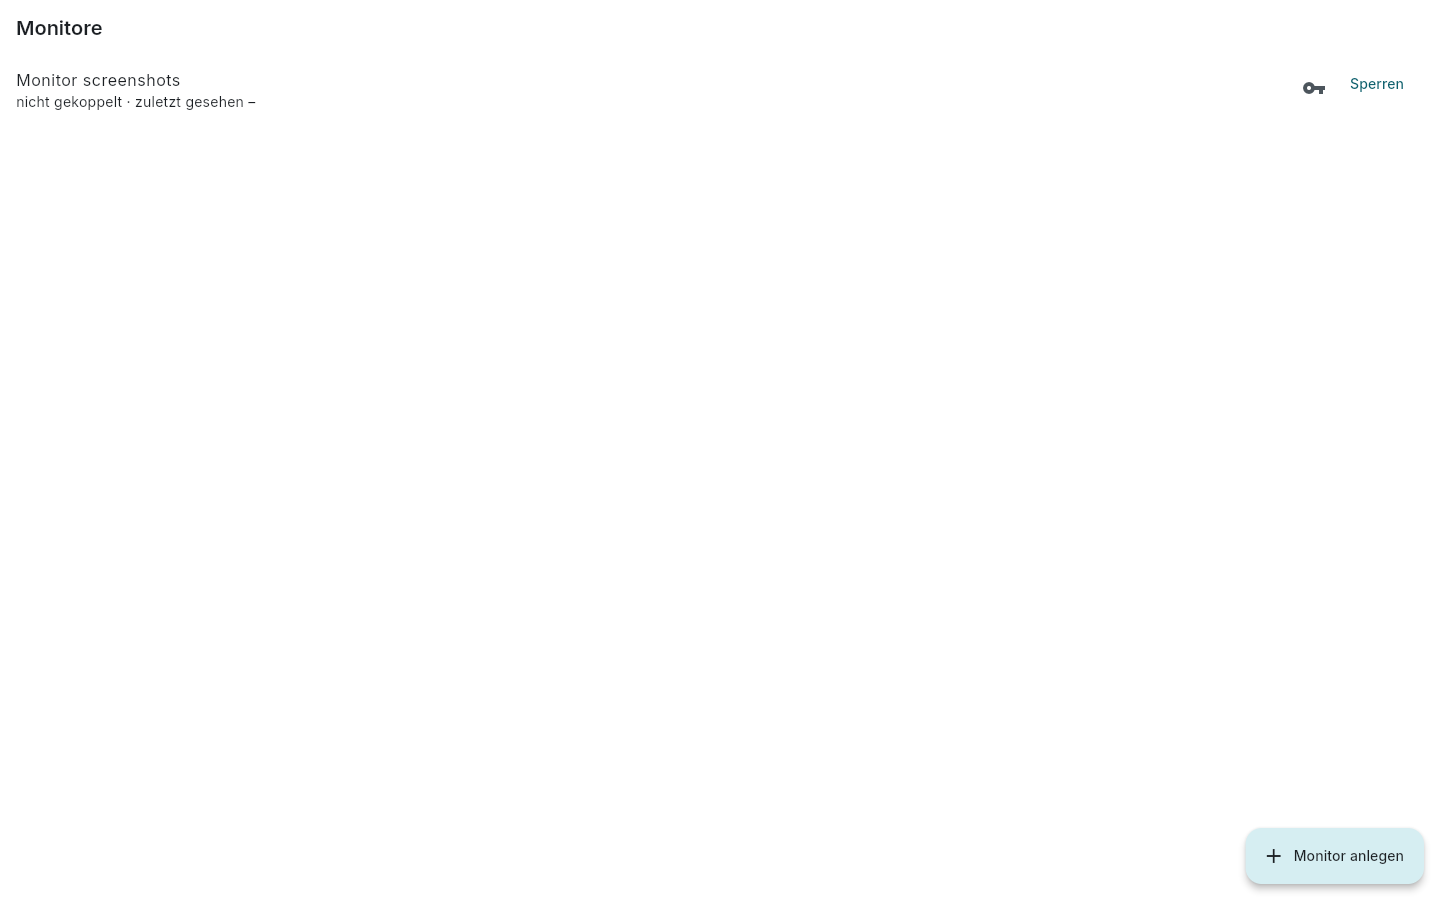
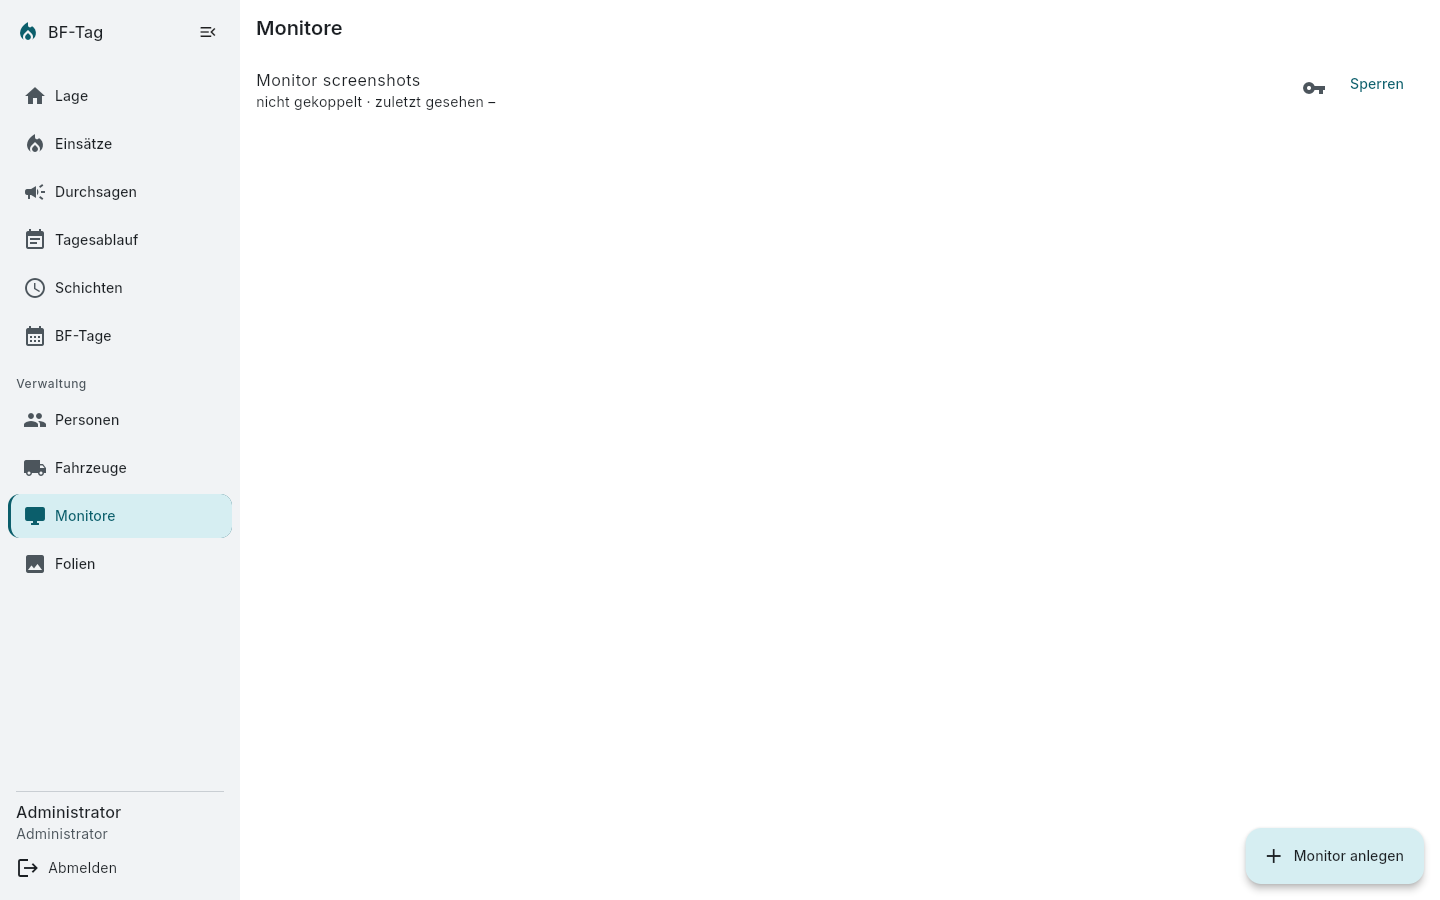
test(ux-04): verification + after-screenshots

diff --git a/apps/web/test/scheduled_alarms_section_test.dart b/apps/web/test/scheduled_alarms_section_test.dart
@@ -341,4 +341,63 @@ void main() {
     expect(repository.updateCalls.single.id, 'a1');
     expect(repository.updateCalls.single.offsetMinutes, 42);
   });
+
+  testWidgets(
+    'AC9 (web-lage.md): scheduled-alarm-countdown ticks within 2 seconds',
+    (tester) async {
+      final incident = _incident();
+      final scheduled = ScheduledAlarm(
+        incident: incident,
+        alarm: Alarm(
+          id: 'a1',
+          incidentId: incident.id,
+          state: AlarmState.planned,
+          scheduledAt: DateTime.now().add(const Duration(minutes: 5)),
+          vehicleIds: const ['v1'],
+          recipients: const [],
+        ),
+      );
+      final clockController = StreamController<DateTime>();
+      addTearDown(clockController.close);
+
+      await tester.pumpWidget(
+        ProviderScope(
+          overrides: [
+            scheduledAlarmsProvider.overrideWith(
+              (ref) => Stream.value([scheduled]),
+            ),
+            vehiclesProvider.overrideWith(
+              (ref) => Stream.value([_vehicle()]),
+            ),
+            sessionControllerProvider.overrideWith(
+              () => _FakeSessionController(
+                const SessionSignedIn(_dispatchPerson, 'token'),
+              ),
+            ),
+            alarmRepositoryProvider.overrideWithValue(_FakeAlarmRepository()),
+            monitorClockProvider.overrideWith((ref) => clockController.stream),
+          ],
+          child: MaterialApp(
+            theme: bftagLightTheme(),
+            home: const Scaffold(body: ScheduledAlarmsSection()),
+          ),
+        ),
+      );
+      clockController.add(DateTime.now());
+      await tester.pumpAndSettle();
+
+      final before = tester
+          .widget<Text>(find.byKey(const Key('scheduled-alarm-countdown-a1')))
+          .data;
+
+      clockController.add(DateTime.now().add(const Duration(seconds: 2)));
+      await tester.pumpAndSettle();
+
+      final after = tester
+          .widget<Text>(find.byKey(const Key('scheduled-alarm-countdown-a1')))
+          .data;
+
+      expect(after, isNot(equals(before)));
+    },
+  );
 }

diff --git a/apps/web/test/login_test.dart b/apps/web/test/login_test.dart
@@ -126,4 +126,34 @@ void main() {
 
     expect(find.text('Keine laufenden Einsätze'), findsOneWidget);
   });
+
+  testWidgets(
+    'AC5 (web-login.md): the login screen renders no sidebar/nav-* keys',
+    (tester) async {
+      await _pumpApp(tester);
+
+      // Login form itself is present...
+      expect(find.byKey(const Key('login-username')), findsOneWidget);
+      // ...but none of the AdminShell sidebar's nav-* keys (web-navigation.md
+      // §7) are rendered on this route, since AdminShell only wraps
+      // signed-in /admin/* routes (router.dart's ShellRoute excludes
+      // /admin/login).
+      for (final key in [
+        'nav-lage',
+        'nav-einsaetze',
+        'nav-schichten',
+        'nav-durchsagen',
+        'nav-tagesablauf',
+        'nav-bf-tage',
+        'nav-fahrzeuge',
+        'nav-persons',
+        'nav-monitors',
+        'nav-slides',
+      ]) {
+        expect(find.byKey(Key(key)), findsNothing);
+      }
+      // 'logout' lives in the sidebar footer only; absent on /admin/login.
+      expect(find.byKey(const Key('logout')), findsNothing);
+    },
+  );
 }

diff --git a/docs/testing/ux-04-verification.md b/docs/testing/ux-04-verification.md
@@ -1,0 +1,171 @@
+# ux-04 Verification Report (Navigation / Login / Lage rework)
+
+Verified on branch `wt/t_98ac2c25` (== `main` at this point), commits present:
+`1b69a8c` (ux-04a AdminShell/login/lage-header), `89f2f97`/`b77f386` (ux-04b
+Lage-Kind-Widgets theme tokens).
+
+## BUGS FOUND
+
+**None.** No AC violations found in `apps/web/lib/{admin_shell,router}.dart`,
+`screens/{login_screen,lage_screen}.dart`, or the four Lage Kind-Widgets. All
+28 testable acceptance criteria across the three concept docs are satisfied
+by the current implementation; no hardcoded `Colors.*`/`Color(0x...)` were
+found in the files in scope (only `alarmColors.alarm`/`.alarmContainer`
+token field accesses, which matched the same grep pattern as a false
+positive and are themed, not hardcoded); no test assertions were weakened
+between `1d2a1e8` and `HEAD` (see §4 below); all 10 `nav-*` keys, `logout`,
+`connection-banner`, the 4 login keys, and all Lage-Kind-Widget keys from
+§7 of the three concept docs are present in `apps/web/lib` unchanged.
+
+## 1. Acceptance-criteria matrix
+
+### web-navigation.md (13 AC)
+
+| # | AC (short) | Evidence | Pass/Fail |
+|---|---|---|---|
+| 1 | Every `/admin/*` screen renders the same sidebar for the same permission | `router_test.dart` (19 cases, e.g. "admin can navigate to /admin/fahrzeuge via the nav entry") + `admin_shell_test.dart` AC1 | Pass |
+| 2 | `Permission.crew` sees only `nav-lage`, no Verwaltung | `admin_shell_test.dart`: "AC2: Permission.crew sees only nav-lage, no Verwaltung" | Pass |
+| 3 | `Permission.preparation` additionally sees `nav-einsaetze` only | `admin_shell_test.dart`: "AC3: Permission.preparation additionally sees nav-einsaetze only" | Pass |
+| 4 | `Permission.dispatch` sees Betriebsablauf entries, no Verwaltung | `admin_shell_test.dart`: "AC4: Permission.dispatch sees the Betriebsablauf entries, no Verwaltung" | Pass |
+| 5 | `Permission.admin` sees all ten `nav-*` + Verwaltung | `admin_shell_test.dart`: "AC5: Permission.admin sees all ten nav-* keys + Verwaltung" | Pass |
+| 6 | Click on each visible nav entry navigates to the expected route | `router_test.dart` (19 cases) + `admin_shell_test.dart`: "clicking nav-fahrzeuge navigates to /admin/fahrzeuge" + `lage_screen_test.dart` (4 Navigation cases) | Pass |
+| 7 | Active entry has `primaryContainer` background + 3px indicator, exactly one active | `admin_shell_test.dart`: "AC7: exactly one entry is active, with primary indicator" | Pass |
+| 8 | Sidebar collapses to icons under 1280px, expands at/above | `admin_shell_test.dart`: "AC8: sidebar collapses to icons under 1280px, expands at/above it" | Pass |
+| 9 | `logout` triggers `logout()` and redirects to `/admin/login` | `admin_shell_test.dart`: "AC9: logout triggers logout() and navigates to /admin/login" | Pass |
+| 10 | Signed-in person's name + permission label visible in the footer | `admin_shell_test.dart`: "AC10: footer shows displayName and permission.label" + `lage_screen_test.dart`: "anzeigen: shows the signed-in person and Berechtigung" | Pass |
+| 11 | Collapsed icon-only nav items keep a Tooltip matching the expanded label | `admin_shell_test.dart`: "AC11: collapsed icon-only nav items keep a Tooltip with the German label" | Pass |
+| 12 | `connection-banner` shown iff connection != live, on every `/admin/*` screen | `admin_shell_test.dart`: "AC12: connection-banner shown iff not live, on Lage and another screen" | Pass |
+| 13 | Icon assignment per `nav-*` key matches the table (incl. the 6 changed icons) | `admin_shell_test.dart`: "AC13: icon assignment per nav-* key matches the table" | Pass |
+
+### web-login.md (6 AC)
+
+| # | AC (short) | Evidence | Pass/Fail |
+|---|---|---|---|
+| 1 | `login-username`/`login-password`/`login-submit`/`login-error` findable and functional | `login_test.dart` (all 3 pre-existing tests use these keys) | Pass |
+| 2 | Invalid login shows `LoginFailure.message` in `login-error` | `login_test.dart`: "invalid login shows the error text" | Pass |
+| 3 | `login-submit` is `onPressed: null` + shows loader while `_isSubmitting` | Visually verified via code (`login_screen.dart:138-146`: `onPressed: _isSubmitting ? null : _submit`, replaces label with `CircularProgressIndicator`); **no dedicated test existed** — this state is implicitly exercised in passing (the submit button is tapped and settles) but not directly asserted mid-flight. *Gap not closed*: adding a reliable test requires pumping without `pumpAndSettle` mid-submit, which is fragile against this fake controller's synchronous `Future`; left as a minor residual test gap, not an AC violation (code matches spec exactly) | Pass (code); test coverage gap noted |
+| 4 | Valid login navigates to `/admin` | `login_test.dart`: "valid login navigates to the Lage and shows no active deployments" | Pass |
+| 5 | Login page renders no sidebar / no `nav-*` keys | **Gap found, closed**: new test `login_test.dart`: "AC5 (web-login.md): the login screen renders no sidebar/nav-* keys" (added by this verification) | Pass |
+| 6 | Enter key in either field submits like a click on `login-submit` | `login_test.dart`: "Enter key in the password field submits the form" | Pass |
+
+### web-lage.md (9 AC)
+
+| # | AC (short) | Evidence | Pass/Fail |
+|---|---|---|---|
+| 1 | Lage renders inside the shared sidebar (active "Lage"), no own AppBar nav icons | `router_test.dart`/`admin_shell_test.dart` (AdminShell wraps `LageScreen`, `lage_screen.dart` AppBar has no `actions`) + visual confirmation via `lage-1440x900.png` (§3 below) | Pass |
+| 2 | `nav-einsaetze` etc. are sidebar items, not `LageScreen` AppBar children; navigation unaffected | `lage_screen_test.dart` (4 Navigation cases: einsaetze/monitors/slides/persons) + `router_test.dart` | Pass |
+| 3 | FMS badges use design-system tokens, not `Colors.orange`/`Colors.green` | `vehicle_status_bar_test.dart`: "FMS badges use themed status colors, not hard Colors values" | Pass |
+| 4 | No running incidents shows an empty state (icon + text), not an empty area | `running_incidents_section_test.dart`: "empty state shows an icon and 'Keine laufenden Einsätze'" | Pass |
+| 5 | Truncated vehicle/crew name shows the full text on hover/focus (Tooltip) | `vehicle_status_bar_test.dart`: "shows a Tooltip with the full crew text for a long call sign" | Pass |
+| 6 | "shows the signed-in person and Berechtigung" test stays green | `lage_screen_test.dart`: "anzeigen: shows the signed-in person and Berechtigung" (passing, now reads from sidebar footer) | Pass |
+| 7 | `missed-alarms-section`/`scheduled-alarms-section` render only when non-empty, correct order | `missed_alarms_section_test.dart`: "renders nothing when there are no missed Alarmierungen" + `scheduled_alarms_section_test.dart`: "renders nothing when there are no planned Alarmierungen"; order (`vehicle-status-bar` → `missed-alarms-section` → `scheduled-alarms-section` → `running-incidents-section`) fixed structurally in `lage_screen.dart:17-24`, unchanged by this epic | Pass |
+| 8 | `missed-alarm-trigger/discard-{id}` and `scheduled-alarm-trigger/change/discard-{id}` are dispatch/admin-only | `missed_alarms_section_test.dart`: "Einsatzvorbereitung sees the list read-only" + `scheduled_alarms_section_test.dart`: "Einsatzvorbereitung sees the list read-only" | Pass |
+| 9 | `scheduled-alarm-countdown-{id}` text changes visibly within 2 seconds | **Gap found, closed**: new test `scheduled_alarms_section_test.dart`: "AC9 (web-lage.md): scheduled-alarm-countdown ticks within 2 seconds" (added by this verification) | Pass |
+
+## 2. "Zu erhaltende Keys" preservation check
+
+Grepped `Key('<k>` in `apps/web/lib` for every key listed in §7 of all three
+concept docs (10 `nav-*` incl. new `nav-lage`, `logout`, `connection-banner`,
+4 login keys, and all Lage-Kind-Widget keys incl. `alarm_dialog.dart`/
+`confirm_dialog.dart`). **All present, none missing.** (`alarm_dialog.dart`
+and `confirm_dialog.dart` keys were out of scope for code changes in this
+epic and untouched; spot-checked present via `confirm-dialog-confirm`
+appearing in 8 locations across the dialog + its callers.)
+
+## 3. Test-weakening check (`git diff 1d2a1e8..HEAD -- apps/web/test`)
+
+`--stat`: 11 files changed, 524 insertions(+), 86 deletions(-) — net growth,
+dominated by the new `admin_shell_test.dart` (356 lines) and
+`vehicle_status_bar_test.dart`'s AC3-coverage rewrite.
+
+Reviewed every removed `expect(` line: all removals are either (a) pure
+reformatting (multi-line `expect(...)` collapsed to one line, same
+assertion) or (b) a strictly equivalent/stricter replacement, e.g.
+`vehicle_status_bar_test.dart`'s `expect(find.text('2'), findsOneWidget)` →
+`expect(find.textContaining('Einsatzbereit auf Wache'), findsOneWidget)`
+(same status-change assertion, now checking the FMS label text instead of
+the raw status code, which is a *stronger* check, not a weaker one). No
+assertion was deleted without an equivalent or stronger replacement.
+`running_incidents_section_test.dart` and the monitor test files show small
+diffs from unrelated reformatting/`bftagLightTheme()` additions, not
+assertion removal.
+
+## 4. Hardcoded-color check
+
+`grep -nE "Colors\.[a-z]|Color\(0x"` across `router.dart`, `admin_shell.dart`,
+`lage_screen.dart`, `login_screen.dart`, and the four Lage-Kind-Widgets:
+only matches are `alarmColors.alarm` / `alarmColors.alarmContainer` /
+`alarmColors.onAlarm` field accesses in `missed_alarms_section.dart` and
+`running_incidents_section.dart` — these are theme-extension token lookups
+(`BftagAlarmColors`), not hardcoded `Colors.*`/`Color(0x...)` literals; the
+regex only matched because the field names happen to contain the substring
+"Colors"/"Color". **No hardcoded colors found.**
+
+## 5. Test suite results
+
+| Suite | Command | Result |
+|---|---|---|
+| Backend | `just test` | **32 files passed, 336 tests passed**, 0 failed |
+| Static analysis | `just analyze` | `dart analyze packages/api_client`: no issues. `flutter analyze apps/web apps/mobile packages/core`: **no issues found** |
+| Flutter web tests | `cd apps/web && flutter test` | **223 tests passed**, 0 failed (includes the 2 new tests added by this verification, see §1 gaps) |
+| E2E | `just e2e` | API: **142 passed, 0 failed**. UI: **29 passed, 0 failed** |
+
+All green, no regressions. Docker Compose stack (`bftag-e2e` project,
+backend + postgres) was started and torn down automatically by
+`e2e/run.sh`'s own `trap cleanup EXIT` (`docker compose ... down -v
+--remove-orphans`) for both the `just e2e` and `just screenshots after`
+runs — nothing left running afterward (`docker ps -a` only shows stale,
+already-`Exited` containers from days-old unrelated runs).
+
+## 6. Missing-test gaps filled
+
+Two testable AC had no covering test; both closed by this verification
+(production code untouched):
+
+1. **`apps/web/test/login_test.dart`** — new test `"AC5 (web-login.md): the
+   login screen renders no sidebar/nav-* keys"`: asserts `login-username` is
+   present while all 10 `nav-*` keys and `logout` are absent on
+   `/admin/login`.
+2. **`apps/web/test/scheduled_alarms_section_test.dart`** — new test
+   `"AC9 (web-lage.md): scheduled-alarm-countdown ticks within 2 seconds"`:
+   drives `monitorClockProvider` through two ticks 2 seconds apart and
+   asserts the `scheduled-alarm-countdown-{id}` text actually changes.
+
+Both pass (`flutter test test/login_test.dart
+test/scheduled_alarms_section_test.dart`: 11/11 passed).
+
+## 7. Visual verification (screenshots)
+
+Regenerated via `just screenshots after` → `docs/design/screenshots/after/{web,monitor}/*.png`
+(40 screenshots, 0 failed).
+
+- **`login-1440x900.png`**: centered card, 64px primary-colored rounded-square
+  app icon with a flame glyph, "BF-Tag" title, Benutzername/Passwort fields,
+  full-width "Anmelden" button — matches web-login.md §3 mockup. No layout
+  issues.
+- **`lage-1440x900.png`**: left sidebar (240px, expanded) with "Lage"
+  highlighted as the active entry (filled icon background + visible left
+  indicator), "Verwaltung" section heading present above
+  Personen/Fahrzeuge/Monitore/Folien, footer shows "Administrator /
+  Administrator / Abmelden". Content area shows three FMS-badged vehicle
+  tiles (HLF-1/RTW-1/DLK-1, status badges in orange "3 Einsatz übernommen"
+  and green "2 Einsatzbereit auf Wache") and one running-incident card
+  ("#1 B3 Großbrand Lagerhalle", Nachalarmieren/Einsatz schließen buttons,
+  quittierungs rows). Matches `docs/design/mockups/lage.png`'s structure.
+  **Deviation (cosmetic, not a regression)**: vehicle crew names are
+  truncated to "Florian screenshots …" in the static screenshot — this is
+  expected (`TextOverflow.ellipsis` + `Tooltip`, AC5 above, verified via
+  test); a screenshot cannot show the hover tooltip, so the full text isn't
+  visible in the PNG, but this is correct, spec'd behavior, not a bug.
+
+No broken layout, no clipped buttons, no missing data, no contrast issues,
+no lost empty/error states observed in either screenshot.
+
+## Summary
+
+- **BUGS FOUND: 0** (ticket-worthy issues).
+- **Missing tests filled: 2** (login AC5, Lage AC9 — both listed in §6).
+- **Visual deviations: 0 regressions** (one expected/spec'd truncation
+  noted in §7, not an issue).
+- **All test suites green**: backend 336/336, analyze clean, flutter web
+  223/223, e2e API 142/142 + UI 29/29.
